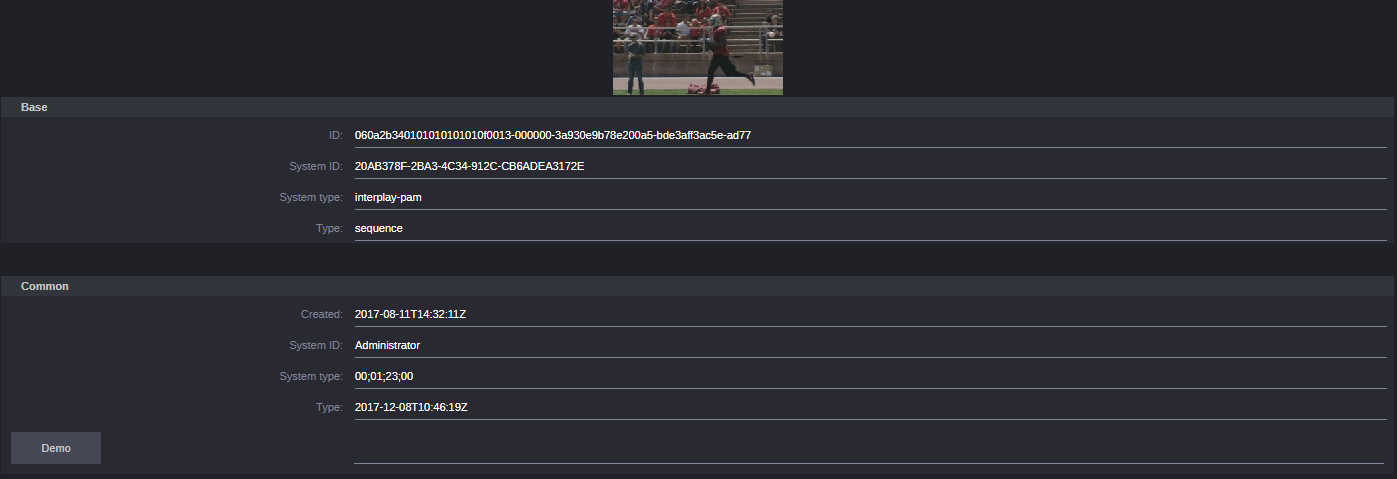
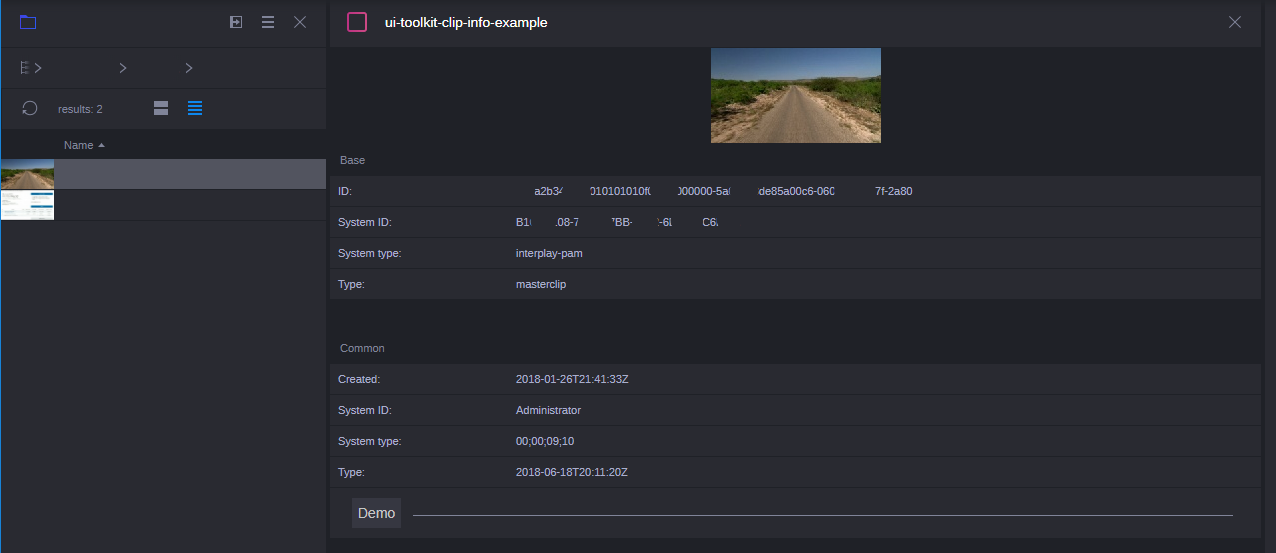
Changed styles with CSS bootstrap, added script instead of weback, new README

diff --git a/src/app/styles.scss b/src/app/styles.scss
@@ -25,20 +25,6 @@
   background-color: #1f2127;
   height: 100%;
 }
-.fieldSetContainer {
-  border-width: 0px;
-  background-color: rgb(41, 42, 49);
-}
-.legend {
-  color: #c7c7c7;
-  background-color: #33353d;
-  height: 20px;
-  width: 100%;
-  padding: 0 20px;
-  font-size: 11px;
-  font-weight: bold;
-  line-height: 20px;
-}
 .imageWrapper {
   background-color: #1f2127;
   text-align: center;
@@ -49,9 +35,15 @@
   display: flex;
 }
 .buttonContainer {
-  width: 25%;
+  width: 8%;
+  display: flex;
+  justify-content: center;
 }
 .inputContainer {
-  width: 75%;
+  width: 90%;
   text-align: right;
+  padding-top: 5px;
+  display: flex;
+  align-items: baseline;
+  justify-content: space-between;
 }

diff --git a/src/app/index.js b/src/app/index.js
@@ -138,6 +138,8 @@ export default class ApplicationContainer {
         const td2 = document.createElement('div');
 
         td1.className = 'cux-table-cell';
+        td1.style.paddingLeft= '8px';
+        td1.style.width = '20%';
         td2.className = 'cux-table-cell';
         td1.innerHTML = name;
         td2.innerHTML = value;

diff --git a/README.md b/README.md
@@ -8,7 +8,7 @@ Once installed MediaCentral Cloud UX will have a new Pane called "Clip Info". Wh
 This example was created using MediaCentral Cloud UX Toolkit:
 * [cloudux-starter-kit ](https://www.npmjs.com/package/cloudux-starter-kit)
 
-![Alt text](screenshot.png?raw=true "Clip Info")
+![Alt text](screenshot.png "Clip Info")
 
 ## Running the examples
 To run these examples you will need a running MediaCentral Cloud UX server running. 
@@ -17,10 +17,14 @@ Connection settings can be changed in [src/project.act](src/project.act)
 ### Dependencies
 * [cloudux-l10n ](https://www.npmjs.com/package/cloudux-l10n)
 
-### MediaCentral Cloud UX Toolkit
-This example contains a basic view that gets the info about the asset from Interplay Production.
+### Running the example
+To run example you will need Avid MediaCentral | Cloud UX server. Properties
+can we changed in [src/project.act](src/project.act "Project act").
+After you change hostIp in `project.act` you can run application.
 
-Running:
-    
-    npm install
-    npm start
+**from cli type:**
+1. `npm install`
+2. `npm start`
+3. Go to [127.0.0.1:8080](https://127.0.0.1:8080/ "127.0.0.1:8080").
+
+**Check our development guide** [here](http://developer.avid.com/mcux_ui_plugin/introduction/doc/development_guide.html "Avid Developers").
